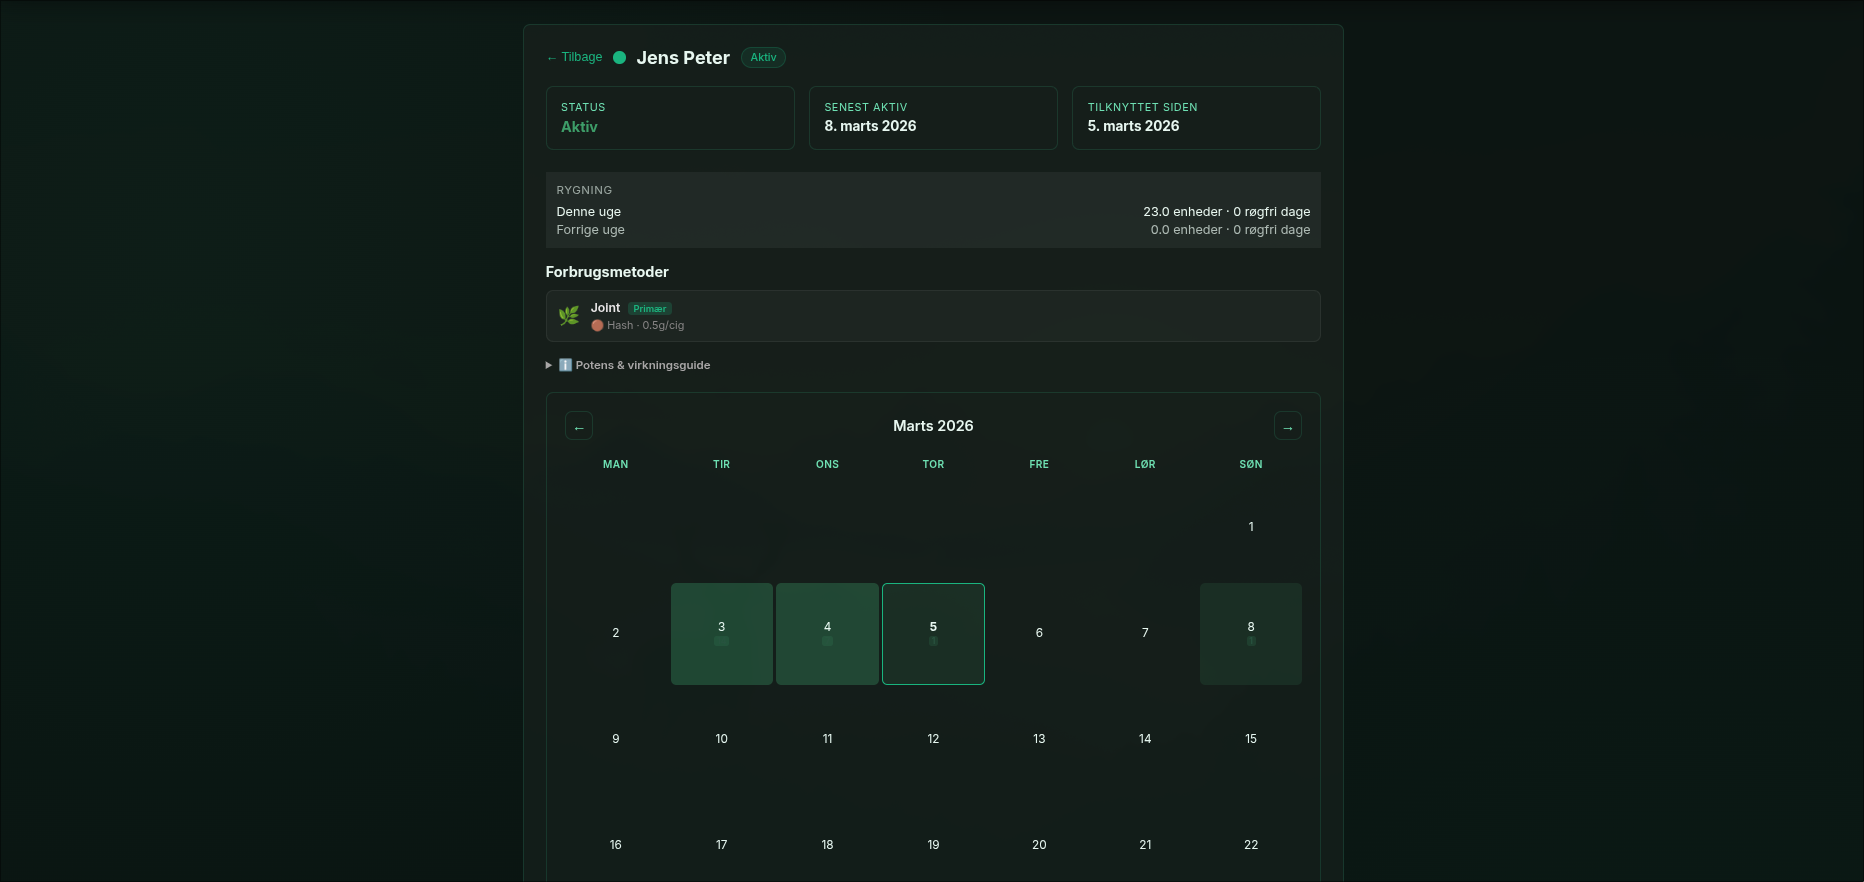
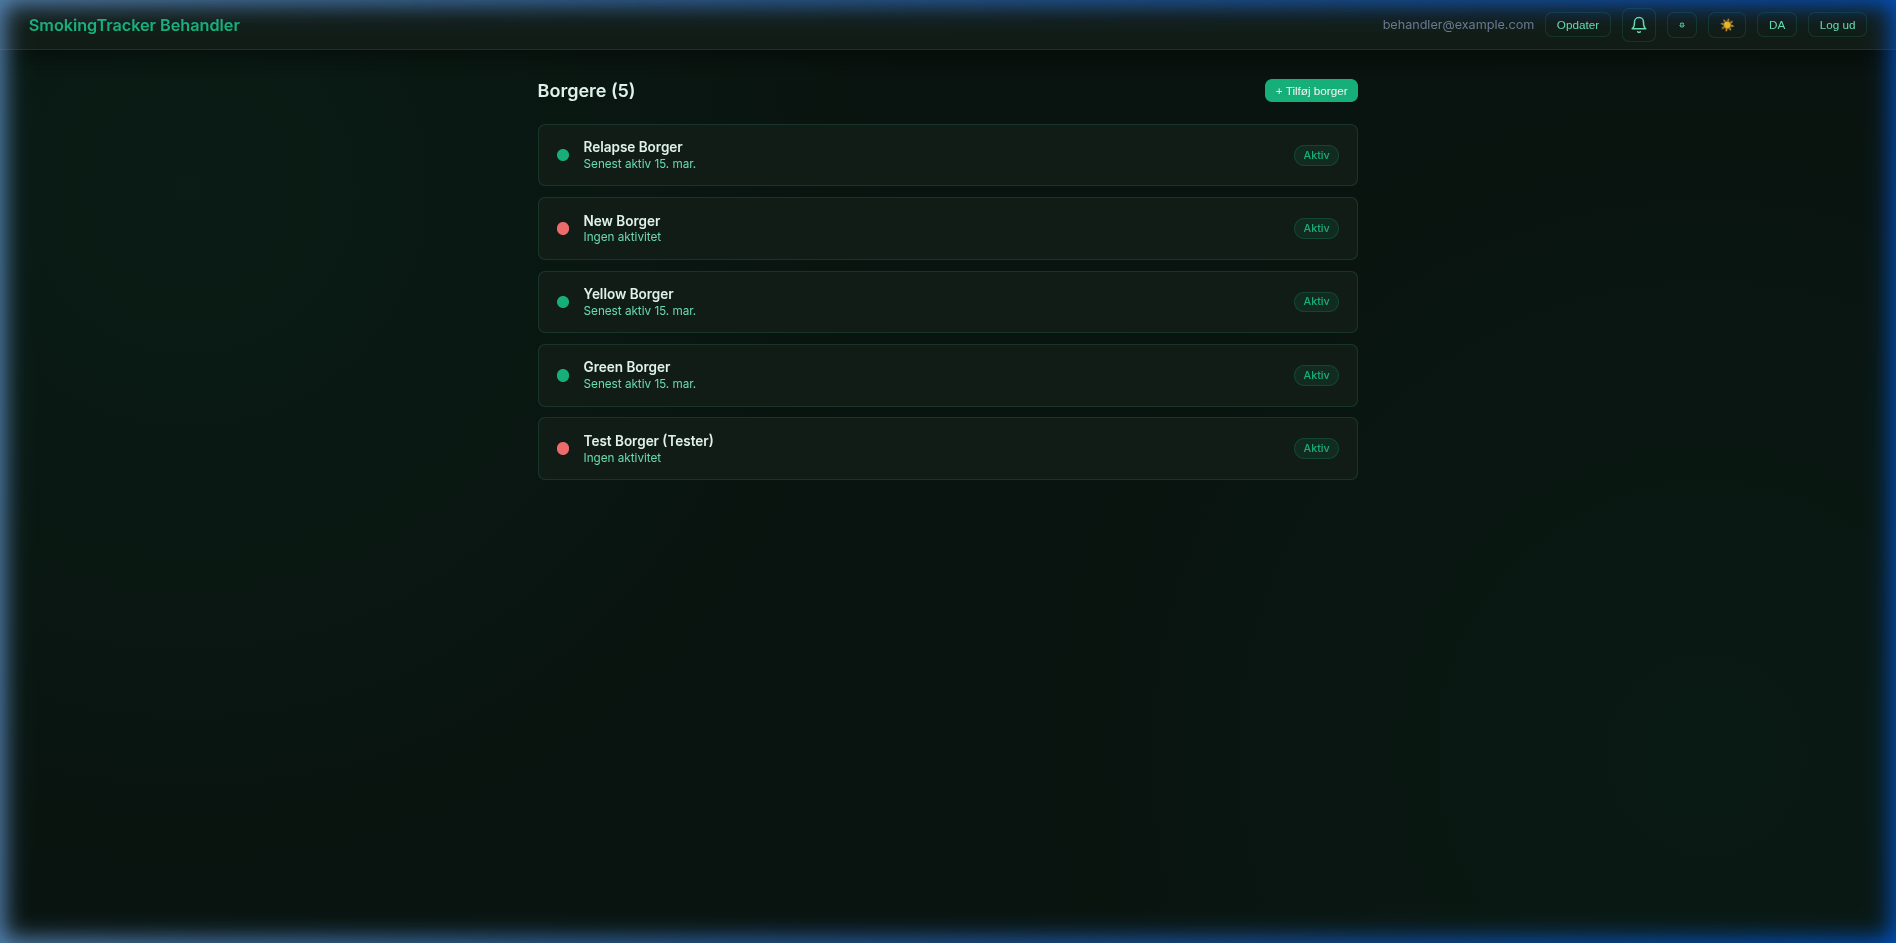
update

diff --git a/style.css b/style.css
@@ -1711,3 +1711,26 @@ input[type="tel"]:invalid:not(:placeholder-shown) {
 
 html[lang="da"] .lang-en { display: none; }
 html[lang="en"] .lang-da { display: none; }
+
+/* Inline Feature Previews */
+.feature-image-preview {
+    margin-top: 1.5rem;
+    border-radius: 12px;
+    overflow: hidden;
+    border: 1px solid var(--color-border);
+    background: var(--color-surface);
+    box-shadow: var(--shadow-sm);
+    transition: transform var(--transition-base);
+}
+
+.feature-card:hover .feature-image-preview {
+    transform: translateY(-5px);
+    box-shadow: var(--shadow-md);
+}
+
+.inline-preview-img {
+    width: 100%;
+    height: auto;
+    display: block;
+    object-fit: cover;
+}

diff --git a/index.html b/index.html
@@ -222,6 +222,9 @@
                         <p data-i18n="featuresInfo.f5_desc">When a citizen feels a craving, the app guides them through
                             a 3-minute breathing exercise with distractions. If they resist, they earn achievements. If
                             not, the session is logged without judgment.</p>
+                        <div class="feature-image-preview">
+                            <img src="/urge-surfing.png" alt="Urge Surfing Modal" class="inline-preview-img">
+                        </div>
                     </div>
 
                     <!-- Feature 6: Achievements -->
